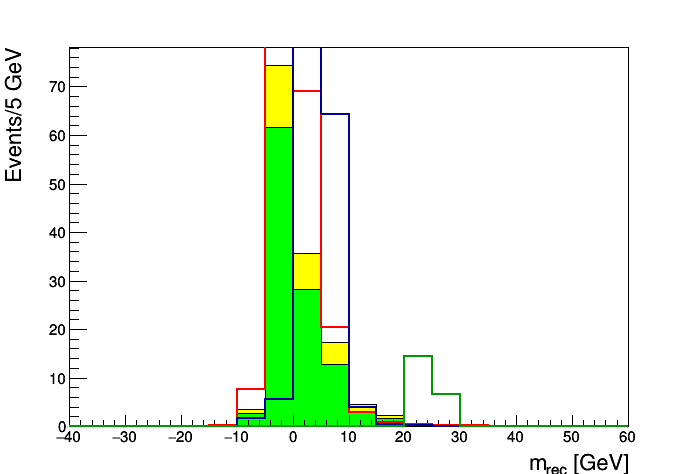
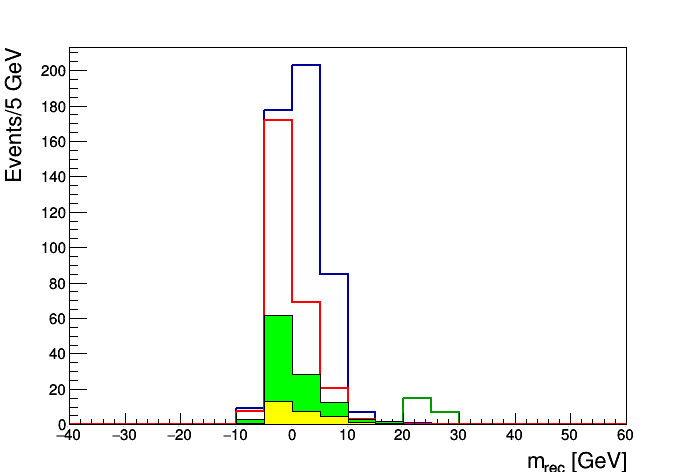
updating cutflow plots

Changed region(s): [[0.0603, 0.089, 0.9052, 1.0], [0.0, 0.089, 0.0302, 0.3856], [0.4526, 0.2373, 0.5129, 0.2669]]

diff --git a/scripts/check_ntuple.py b/scripts/check_ntuple.py
@@ -1459,16 +1459,16 @@ ymax = []
 xmin = []
 xmax = []
 #ROOT.gPad.SetLogy()
-hs_bkg_mu_rec.Draw("hist")
-hs_bkg_mu_rec.GetHistogram().SetXTitle('m_{rec} [GeV]')
-hs_bkg_mu_rec.GetHistogram().SetYTitle('Events/5 GeV')
-hs_bkg_mu_rec.GetHistogram().SetTitleSize(0.05, "xy")
+hs_sig_mu_rec.Draw("hist")
+hs_sig_mu_rec.GetHistogram().SetXTitle('m_{rec} [GeV]')
+hs_sig_mu_rec.GetHistogram().SetYTitle('Events/5 GeV')
+hs_sig_mu_rec.GetHistogram().SetTitleSize(0.05, "xy")
 ROOT.gPad.Update()
 ymin.append(ROOT.gPad.GetUymin())
 ymax.append(ROOT.gPad.GetUymax())
 xmin.append(ROOT.gPad.GetUxmin())
 xmax.append(ROOT.gPad.GetUxmax())
-hs_sig_mu_rec.Draw("hist, nostack, same")
+hs_bkg_mu_rec.Draw("hist, nostack, same")
 ROOT.gPad.Update()
 c_muon_rec.Print("../plots/ZTomumu_rec.png")
 file_mu_0p5_rec = ROOT.TFile("../combine/mu_0p5_mrec.root","RECREATE")
